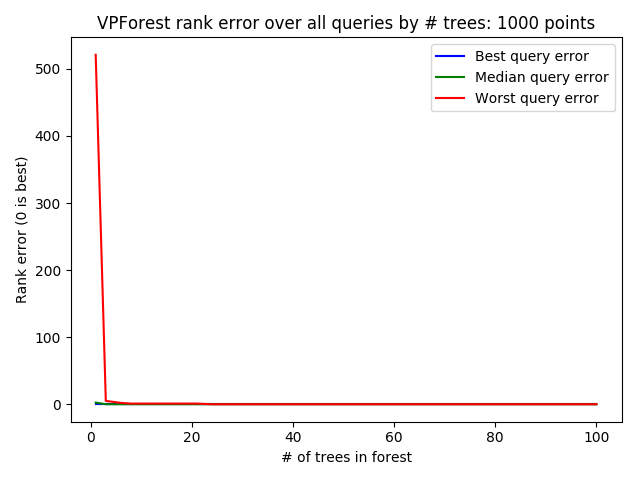
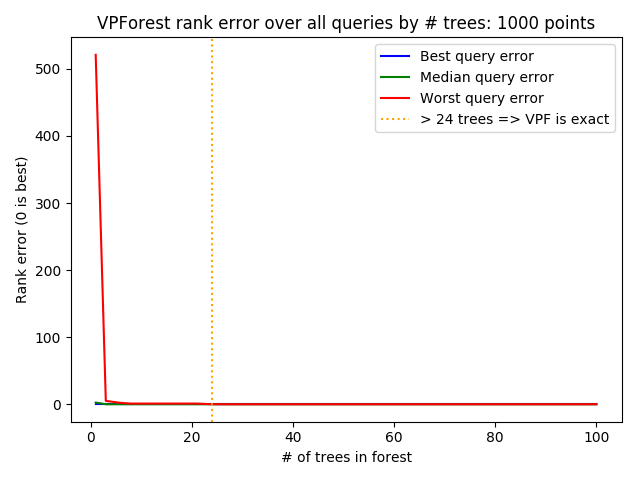
CLI for testing supports calls to Test() with Euclidean args; generated some data too...

Changed region(s): [[0.6562, 0.0938, 0.9688, 0.2812], [0.5938, 0.1562, 0.625, 0.2188], [0.5938, 0.0938, 0.625, 0.125]]

diff --git a/vptest.py b/vptest.py
@@ -5,6 +5,7 @@ import time
 import matplotlib.pyplot as plt
 import pickle
 import re
+import argparse
 random.seed(166)
 np.random.seed(166)
 
@@ -97,11 +98,13 @@ class Test(object):
 		error_meds = [k for __, k in sorted(zip(n_trees, [results[k]["median"] for k in keys if "Error-" in k]))]
 		error_maxs = [k for __, k in sorted(zip(n_trees, [results[k]["max"] for k in keys if "Error-" in k]))]
 		n_trees = sorted(n_trees)
+		all_succeed = n_trees[np.argmin(error_maxs)]
 
 		plt.clf()
 		plt.plot(n_trees, times, color = "blue", label = "VPForest")
 		plt.axhline(results["VPTree-Time"], color = "green", label = "VPTree")
 		plt.axhline(results["LinearScan-Time"], color = "red", label = "LinearScan")
+		plt.axvline(all_succeed, color = "orange", linestyle = ":", label = "> {} trees => VPF is exact".format(all_succeed))
 		plt.xlabel("# of trees in forest")
 		plt.ylabel("Mean query time (s)")
 		plt.legend(loc = "lower right")
@@ -113,6 +116,7 @@ class Test(object):
 		plt.plot(n_trees, hits, color = "blue", label = "VPForest")
 		plt.axhline(results["VPTree-Hits"], color = "green", label = "VPTree")
 		plt.axhline(self.n, color = "red", label = "LinearScan")
+		plt.axvline(all_succeed, color = "orange", linestyle = ":", label = "> {} trees => VPF is exact".format(all_succeed))
 		plt.xlabel("# of trees in forest")
 		plt.ylabel("Mean search hits")
 		plt.legend(loc = "lower right")
@@ -125,7 +129,7 @@ class Test(object):
 		plt.plot(n_trees, error_mins, color = "blue", label = "Best query error")
 		plt.plot(n_trees, error_meds, color = "green", label = "Median query error")
 		plt.plot(n_trees, error_maxs, color = "red", label = "Worst query error")
-		plt.axvline(all_succeed, color = "orange", linestyle = ":", label = "> {} trees => no error".format(all_succeed))
+		plt.axvline(all_succeed, color = "orange", linestyle = ":", label = "> {} trees => VPF is exact".format(all_succeed))
 		plt.xlabel("# of trees in forest")
 		plt.ylabel("Rank error (0 is best)")
 		plt.legend(loc = "upper right")
@@ -169,11 +173,14 @@ if __name__ == "__main__":
 		"n_estimators" : None		# By default, grow n/log(n) estimators ==> global O(n) query time
 	}
 
-	d = 2
-	n = 500
-	n_queries = 25
-	data = np.random.rand(n, d)
-	q = [np.random.rand(d) for i in range(n_queries)]
-	t = Test(data, scan_params, tree_params, forest_params, save_name = "output/{}x{}_Euclidean".format(n, d))
+	parser = argparse.ArgumentParser()
+	parser.add_argument("--n", type = int)
+	parser.add_argument("--d", type = int)
+	parser.add_argument("--n_queries", type = int)
+	args = parser.parse_args()
+
+	data = np.random.rand(args.n, args.d)
+	q = [np.random.rand(args.d) for i in range(args.n_queries)]
+	t = Test(data, scan_params, tree_params, forest_params, save_name = "output/{}x{}_Euclidean".format(args.n, args.d))
 	results = t.test(q)
 	t.plot_results(results)
